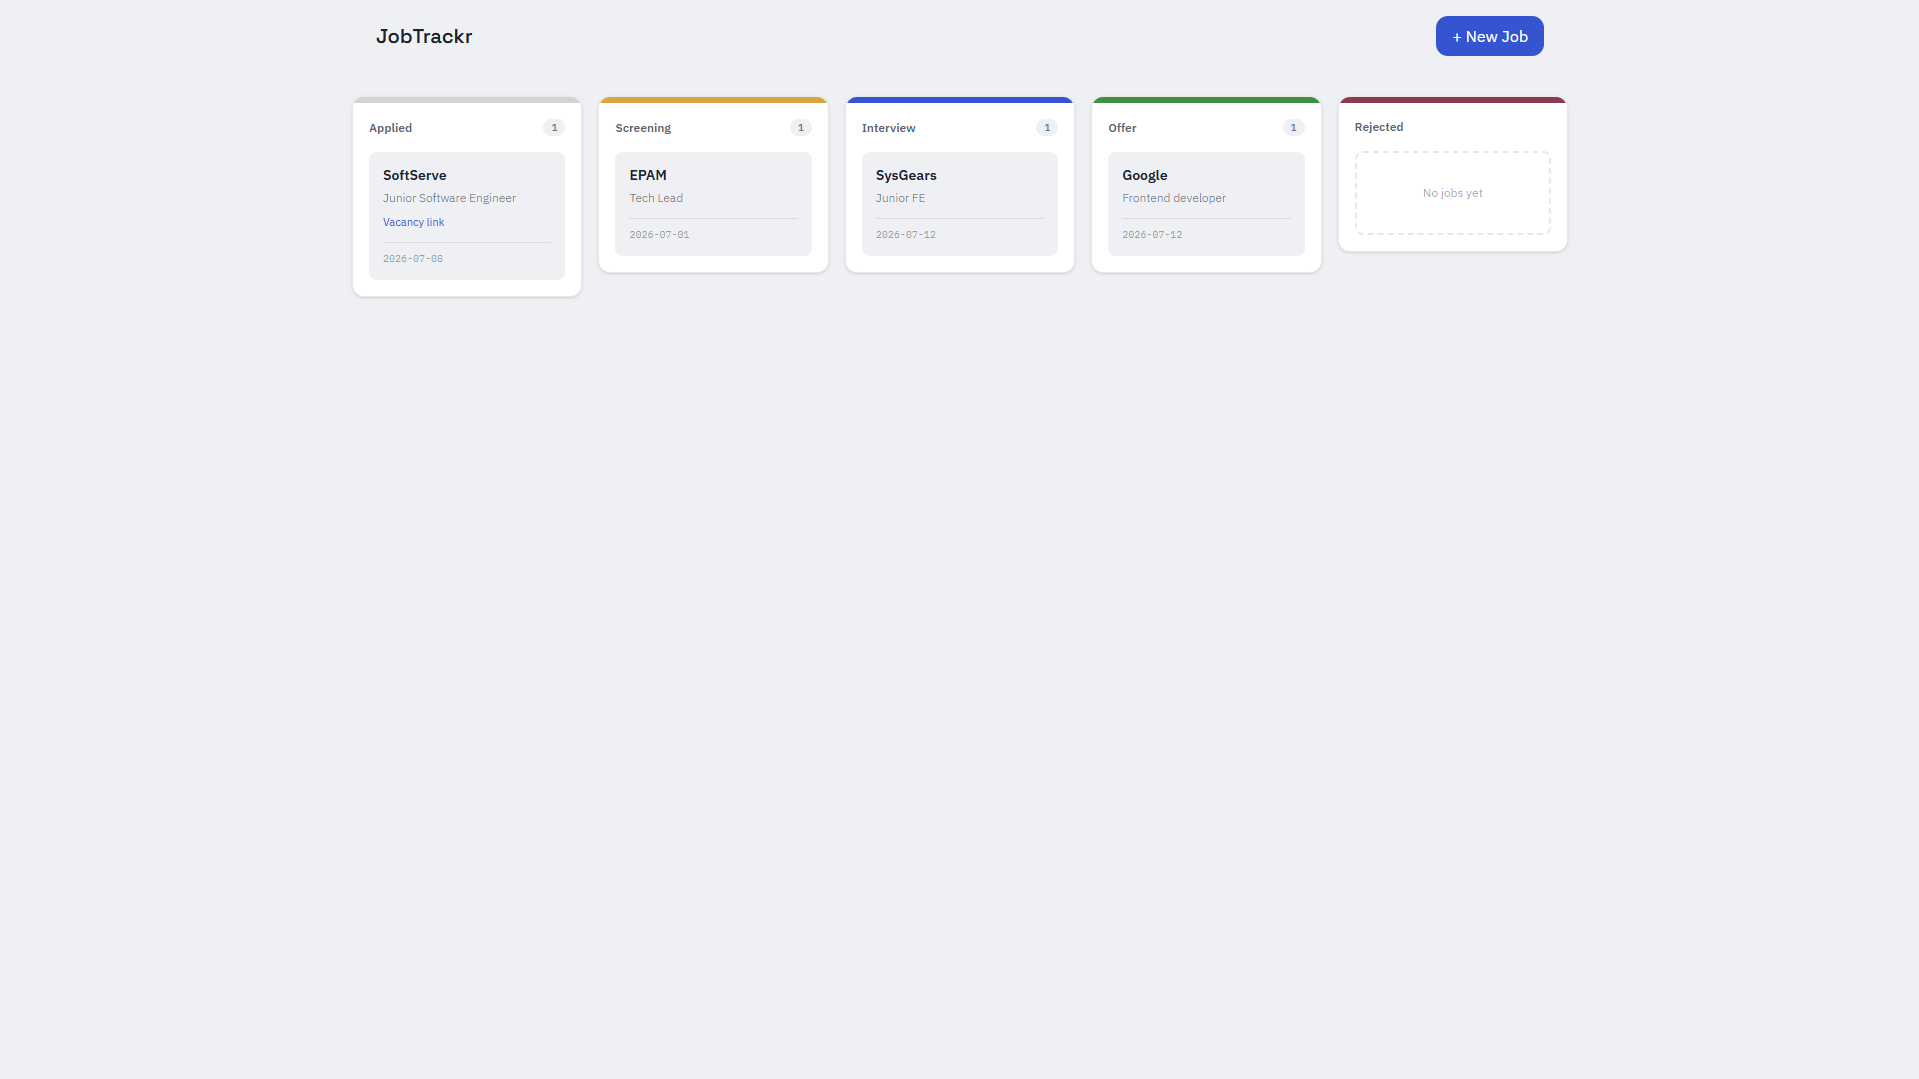
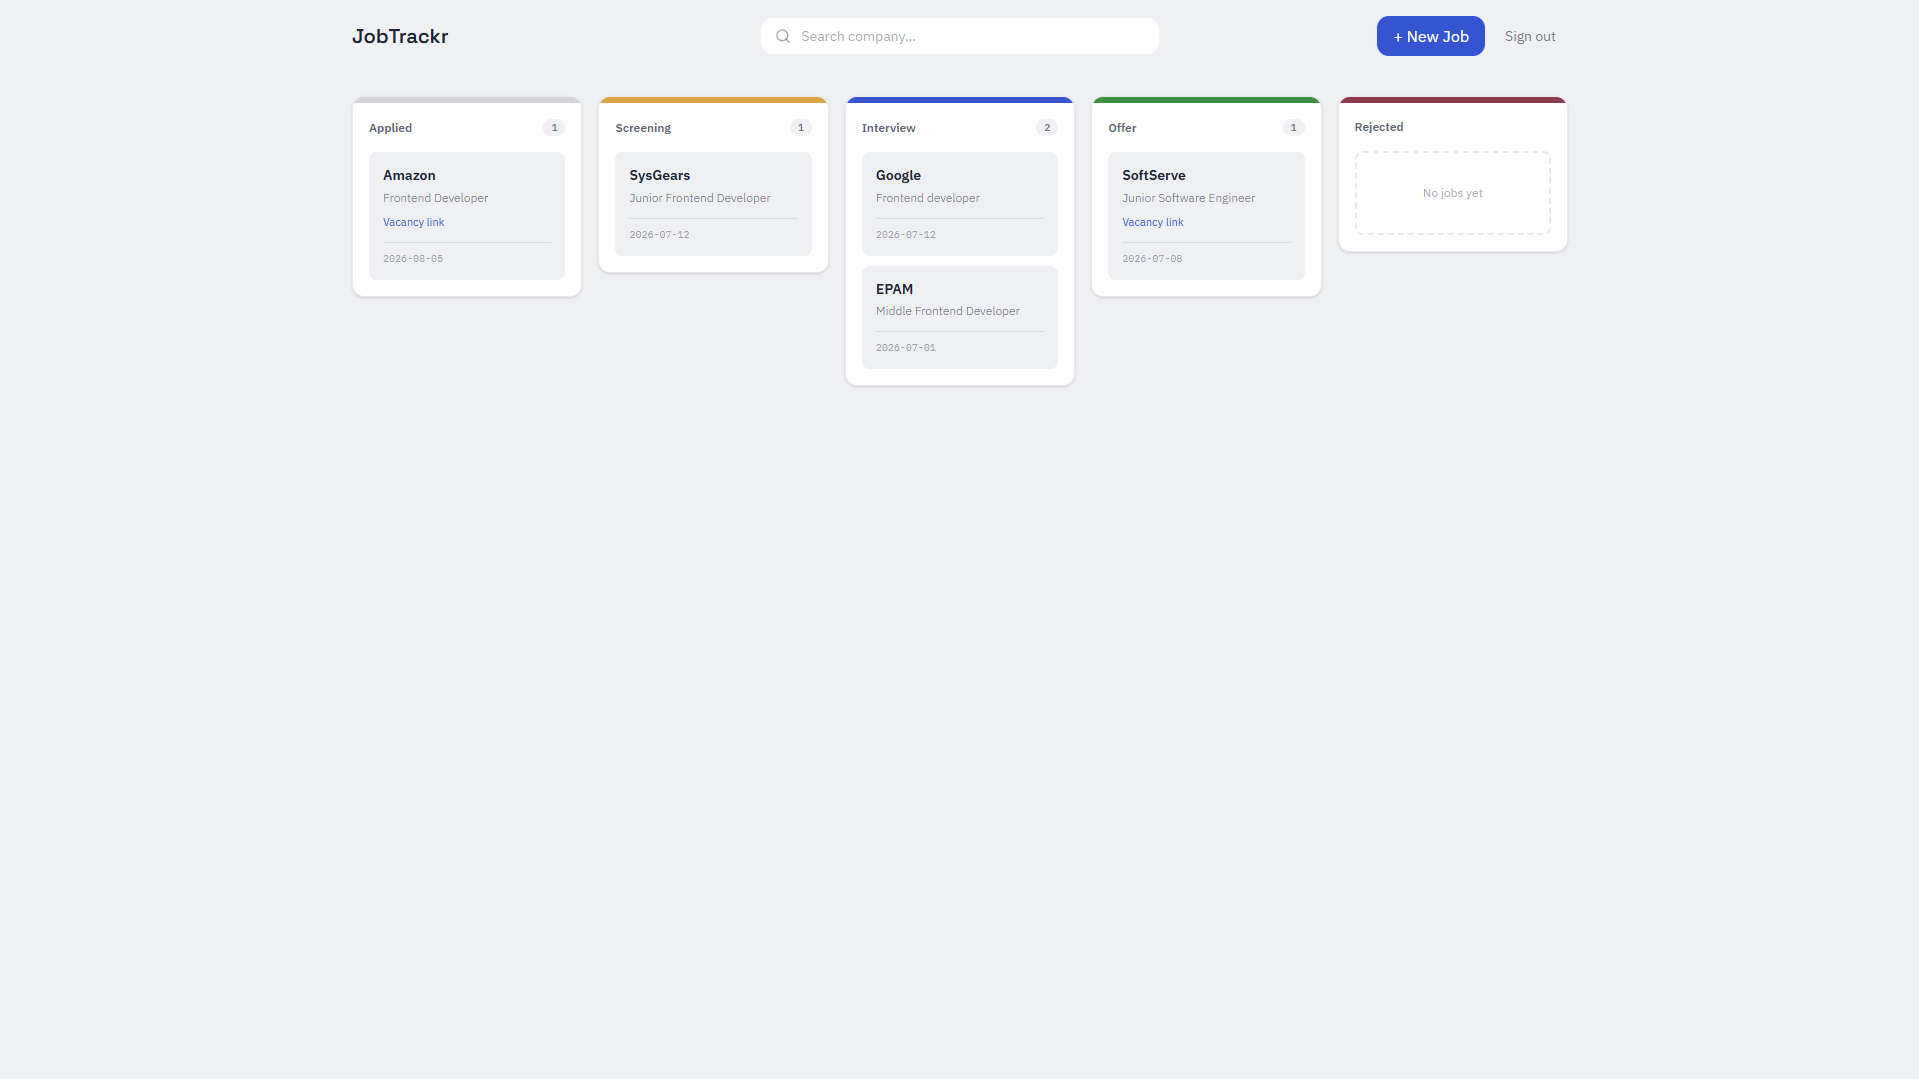
docs: update README demo link, preview image, and add guest user details

diff --git a/README.md b/README.md
@@ -6,7 +6,12 @@ A kanban-style job application tracker for managing your job search — from app
 
 ![JobTrackr screenshot](./screenshot.png)
 
-**[Live demo →](https://jobtrackr-nip0zc1v0-marks-projects-d14cc920.vercel.app/)**
+**[Live demo →](https://jobtrackr-jade.vercel.app/)**
+
+Use the demo account to explore the board:
+
+- Email: `demo@jobtrackr.app`
+- Password: `demo12345`
 
 ## Features
 
